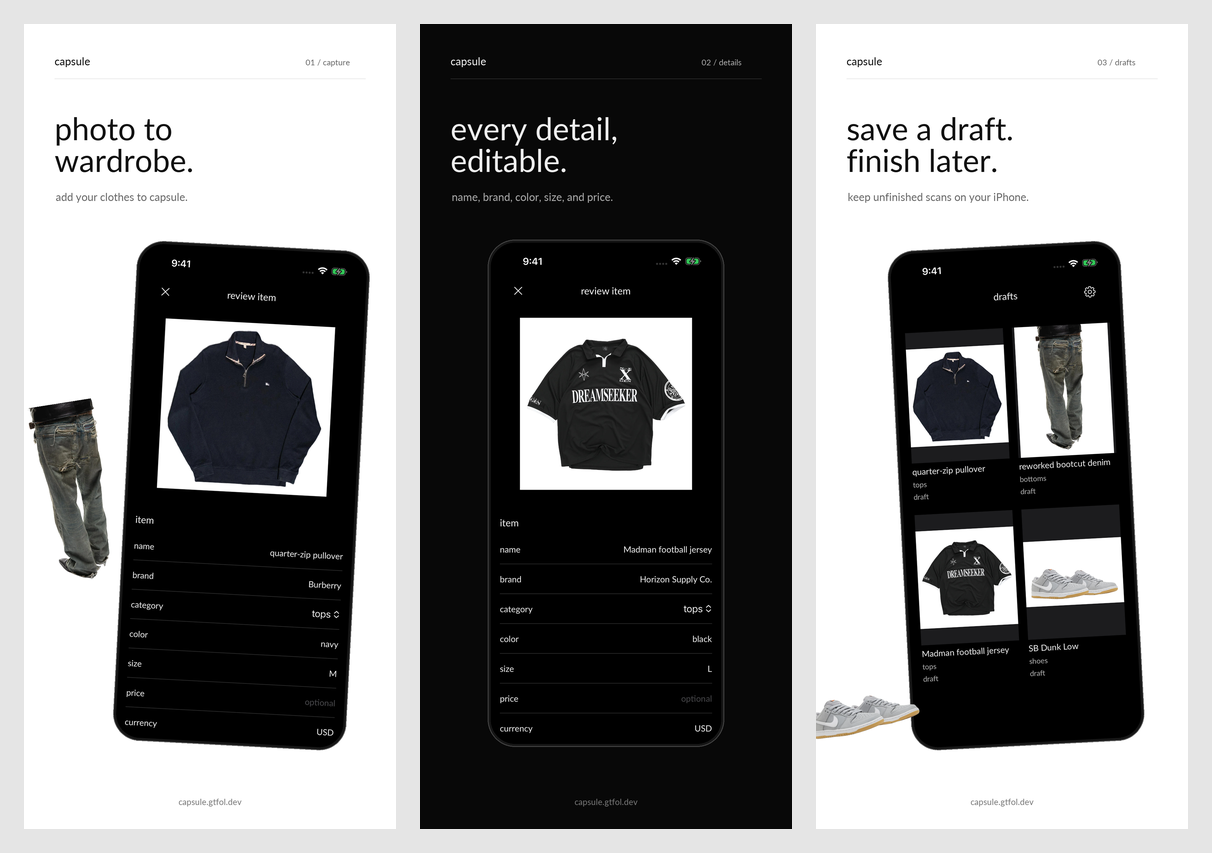
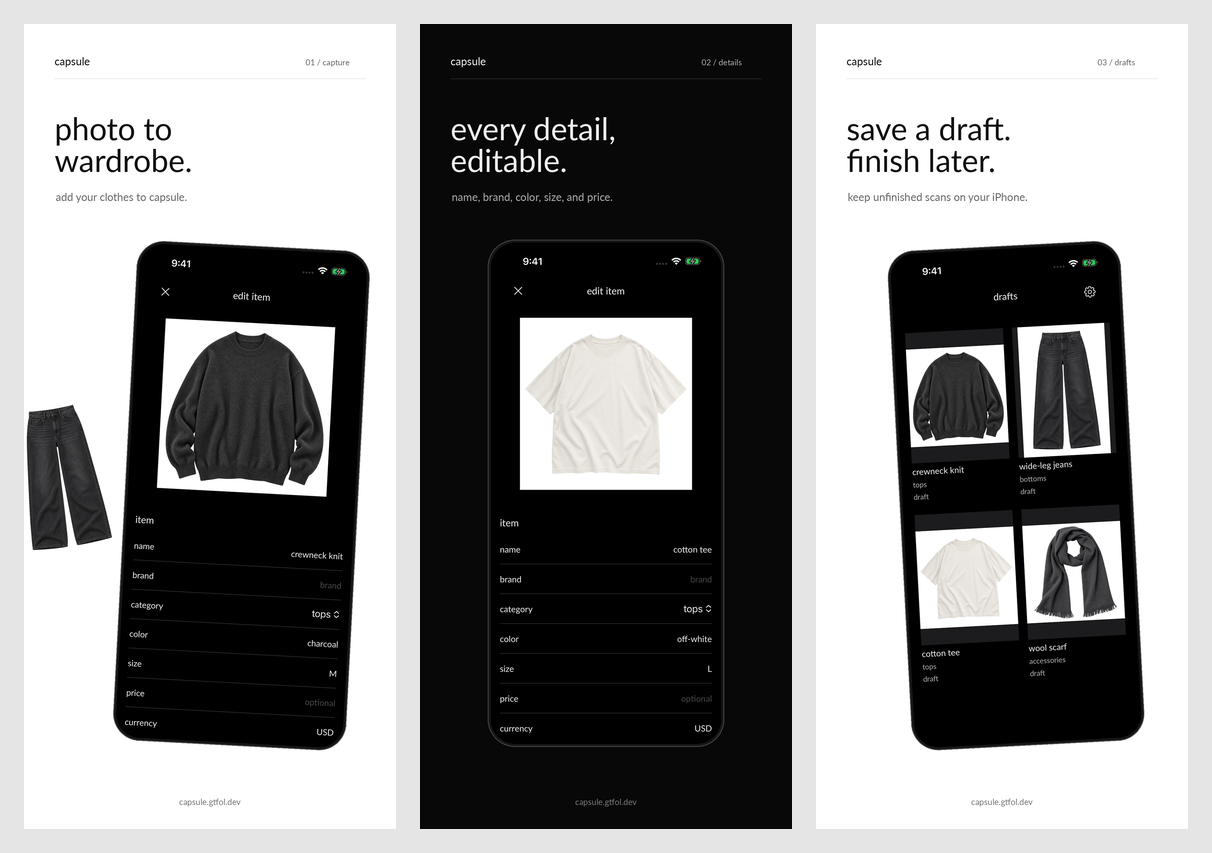
replace branded gallery, update sample garments (#44)

diff --git a/apps/ios/marketing/app-store/gallery-entry.swift b/apps/ios/marketing/app-store/gallery-entry.swift
@@ -13,7 +13,7 @@ struct GalleryTransport: HTTPTransport {
 @main @MainActor struct CapsuleScanApp: App {
     @State private var services: AppServices?
     @State private var editor: ItemEditorModel?
-    private let mode = ProcessInfo.processInfo.environment["GALLERY_SCREEN"] ?? "sweater"
+    private let mode = ProcessInfo.processInfo.environment["GALLERY_SCREEN"] ?? "knit"
     var body: some Scene {
         WindowGroup {
             Group {
@@ -35,20 +35,20 @@ struct GalleryTransport: HTTPTransport {
             let app = AppServices(container: container, media: media, credentials: credentials, transport: GalleryTransport())
             await app.refreshCredentials()
             let fixtures: [(String, ItemFields)] = [
-                ("sweater", ItemFields(name: "quarter-zip pullover", brand: "Burberry", category: .tops, color: "navy", size: "M", currency: "USD")),
-                ("denim", ItemFields(name: "reworked bootcut denim", brand: "NO/FAITH STUDIOS", category: .bottoms, color: "faded black", size: "S", currency: "USD")),
-                ("jersey", ItemFields(name: "Madman football jersey", brand: "Horizon Supply Co.", category: .tops, color: "black", size: "L", currency: "USD")),
-                ("dunks", ItemFields(name: "SB Dunk Low", brand: "Nike", category: .shoes, color: "wolf grey", size: "US 9", currency: "USD"))
+                ("knit", ItemFields(name: "crewneck knit", brand: "", category: .tops, color: "charcoal", size: "M", currency: "USD")),
+                ("jeans", ItemFields(name: "wide-leg jeans", brand: "", category: .bottoms, color: "faded black", size: "S", currency: "USD")),
+                ("tee", ItemFields(name: "cotton tee", brand: "", category: .tops, color: "off-white", size: "L", currency: "USD")),
+                ("scarf", ItemFields(name: "wool scarf", brand: "", category: .accessories, color: "charcoal", size: "one size", currency: "USD"))
             ]
             for (index, fixture) in fixtures.enumerated() {
-                let data = try Data(contentsOf: Bundle.main.url(forResource: fixture.0, withExtension: "webp")!)
+                let data = try Data(contentsOf: Bundle.main.url(forResource: fixture.0, withExtension: "png")!)
                 let jpeg = try await app.images.jpeg(data, maxEdge: 1600, quality: 0.9).data
                 let reference = try await media.write(jpeg, extension: "jpg")
                 var record = ItemRecord(localImageReference: reference, fields: fixture.1)
                 record.createdAt = Date().addingTimeInterval(Double(-index))
                 try app.items.save(record)
                 if fixture.0 == mode || (mode == "drafts" && index == 0) {
-                    let model = ItemEditorModel(image: jpeg, services: app)
+                    let model = ItemEditorModel(record: record, services: app)
                     model.fields = fixture.1
                     model.touched(.name); model.touched(.brand); model.touched(.category); model.touched(.color)
                     editor = model

diff --git a/apps/ios/marketing/app-store/render.py b/apps/ios/marketing/app-store/render.py
@@ -1,4 +1,4 @@
-"""Render designed App Store panels from real simulator screens and wardrobe images.
+"""Render designed App Store panels from real simulator screens and unbranded sample garments.
 Uses Pillow only; does not regenerate or retouch the app UI or garments.
 """
 from pathlib import Path
@@ -59,21 +59,20 @@ def footer(canvas):
 
 out=ROOT/'exports'; out.mkdir(exist_ok=True)
 files=[]
-if (ROOT/'screens/sweater.png').exists():
+if (ROOT/'screens/knit.png').exists():
     canvas=base(1,'photo to\nwardrobe.','add your clothes to capsule.')
-    phone(canvas,'sweater.png',(293,720),790,angle=-3)
-    garment(canvas,'denim.webp',(-90,1230),445,angle=9)
+    phone(canvas,'knit.png',(293,720),790,angle=-3)
+    garment(canvas,'jeans.png',(-85,1230),345,angle=9)
     footer(canvas)
     path=out/'01-photo-to-wardrobe.png';canvas.convert('RGB').save(path);files.append(path)
-if (ROOT/'screens/jersey.png').exists():
+if (ROOT/'screens/tee.png').exists():
     canvas=base(2,'every detail,\neditable.','name, brand, color, size, and price.',True)
-    phone(canvas,'jersey.png',(226,720),790)
+    phone(canvas,'tee.png',(226,720),790)
     footer(canvas)
     path=out/'02-editable-details.png';canvas.convert('RGB').save(path);files.append(path)
 if (ROOT/'screens/drafts.png').exists():
     canvas=base(3,'save a draft.\nfinish later.','keep unfinished scans on your iPhone.')
     phone(canvas,'drafts.png',(235,720),790,angle=3)
-    garment(canvas,'dunks.webp',(-75,2080),670,angle=12)
     footer(canvas)
     path=out/'03-drafts.png';canvas.convert('RGB').save(path);files.append(path)
 # A compact contact sheet is for review; individual PNGs are upload sized.

diff --git a/apps/ios/marketing/app-store/README.md b/apps/ios/marketing/app-store/README.md
@@ -1,24 +1,30 @@
 # capsule App Store gallery
 
-Designed screenshots, 1242 × 2688 RGB PNG. Lato, monochrome canvases, restrained headings, real app UI, and garment photos supplied from Allen's capsule wardrobe for this listing.
+Designed screenshots, 1242 × 2688 RGB PNG: Lato, monochrome canvases, real app UI, and unbranded sample garments.
 
-- `assets/`: the Burberry quarter-zip, NO/FAITH denim, Madman jersey, and Nike Dunks exported from capsule's visible wardrobe images. No generated garment is used.
-- `screens/`: unretouched, full-resolution Simulator captures of the app's existing views.
-- `render.py`: deterministic gallery compositor using Pillow and the bundled Lato font.
-- `exports/`: upload-sized panels and a compact contact sheet for approval.
-- `index.html`: generated browser preview of the actual exports.
-- `gallery-entry.swift`: disposable screenshot fixture entry point. It renders the production views with sample records, in-memory SwiftData, and a transport that rejects every network request. It must never replace the shipped app entry point or serve as App Review access.
+- `assets/`: original generated sample knit, jeans, tee, and scarf; no brand names, logos, or recognizable third-party graphics. The Lato font and license are bundled.
+- `screens/`: unretouched Simulator captures of production views from `b702051` (version 1.0, build 10, the version under review).
+- `gallery-entry.swift`: screenshot-only fixture using in-memory SwiftData, manually entered fields, and a transport that rejects all network requests. It is never part of the shipped app or App Review access.
+- `render.py`: deterministic Pillow compositor; preserves the real UI, adds headings and device framing, and generates `index.html`.
+- `exports/`: three numbered upload panels and a contact sheet for preview. Only upload the numbered panels.
 
-The fixture build is in `/tmp/capsule-scan-gallery`, installed only on the separate `capsule scan gallery` simulator. `GALLERY_SCREEN=sweater`, `jersey`, or `drafts` selects the scene. Images are bundled in the disposable build, not added to the production app. Garment field examples are manually filled for demonstration; the gallery makes no claim that on-device processing infers names or brands.
+The October 11, 2026 revision replaces every branded garment, brand field value, and shoe decoration in the prior gallery after App Review flagged third-party content. The screenshots do not imply that on-device processing infers names, brands, or categories. Generated sample photos are demonstration input, not an app feature.
 
-Current status: all three panels are approved and uploaded to App Store Connect for version 1.0, English (U.S.), iPhone 6.5-inch. Order: capture, details, drafts. The app has not been submitted for review.
+## Capture and render
 
-All artwork is constrained above y=2430, leaving at least 150 px before the footer at y=2580. Rotated bounds are included, and the browser preview displays the same exported PNGs.
+Use a disposable copy of `apps/ios` from `b702051`, matching the submitted binary. Replace its app entry point with `gallery-entry.swift` and copy the four sample PNGs into its Resources folder. Regenerate that disposable Xcode project with `scripts/generate-project.py`. Build for an iPhone Simulator with a separate bundle identifier (`dev.gtfol.capsule.gallery`) and signing disabled. Do not change the production app or use a real account.
 
-Render the panels and browser preview:
+Launch with `GALLERY_SCREEN=knit`, `tee`, or `drafts`. In Simulator, use File → Save Screen… with the device mask disabled; save to `screens/knit.png`, `screens/tee.png`, and `screens/drafts.png`. The editor opens a saved local sample draft so no extraction alters the manually entered example.
 
-```sh
-python3 render.py
-```
+Run `python3 render.py` with Pillow installed. Visually inspect all three panels, including names, logos, footer clearance, and any overlays. All artwork must end above y=2430, leaving at least 150 px before the footer at y=2580. Verify each upload is 1242 × 2688, RGB, with no alpha channel.
 
-Do not advertise background removal until it is implemented and verified. Do not upload the contact sheet; use each numbered PNG separately after visual approval.
+## Sample image provenance
+
+Generated using the built-in image-generation tool on October 11, 2026. Common prompt constraints: realistic generic catalog garment, full front view with margin, soft neutral light, no people, hangers, brand, logo, label, text, or distinctive trademark; transparent background. Subjects:
+
+- `knit.png`: plain oversized charcoal-black crewneck wool sweater with natural folds.
+- `jeans.png`: plain washed black wide-leg five-pocket denim with tonal stitching and an unmarked button.
+- `tee.png`: plain off-white oversized short-sleeve crewneck cotton tee.
+- `scarf.png`: plain charcoal wool scarf, loosely folded, with frayed ends and no pattern.
+
+These replace the older third-party photos; those images and branded screenshots are removed from the current gallery source. Do not reuse older listing assets from App Store Connect’s Asset Library.
